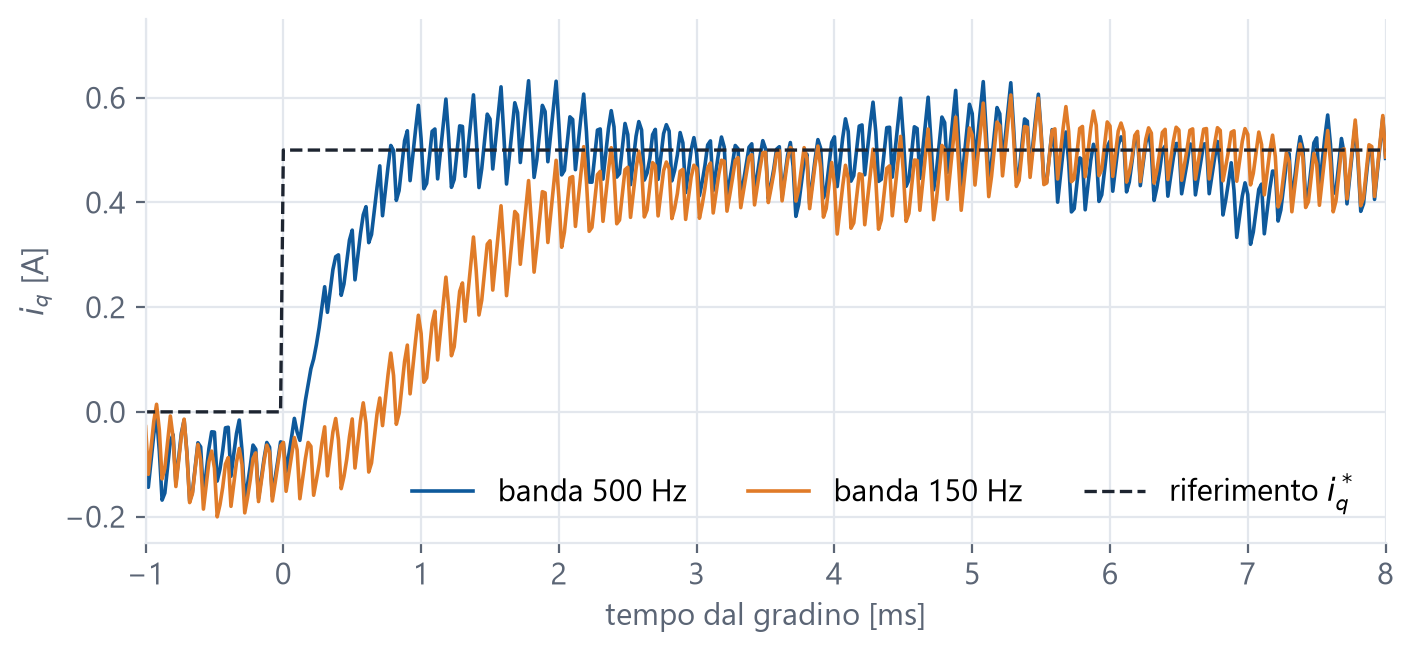
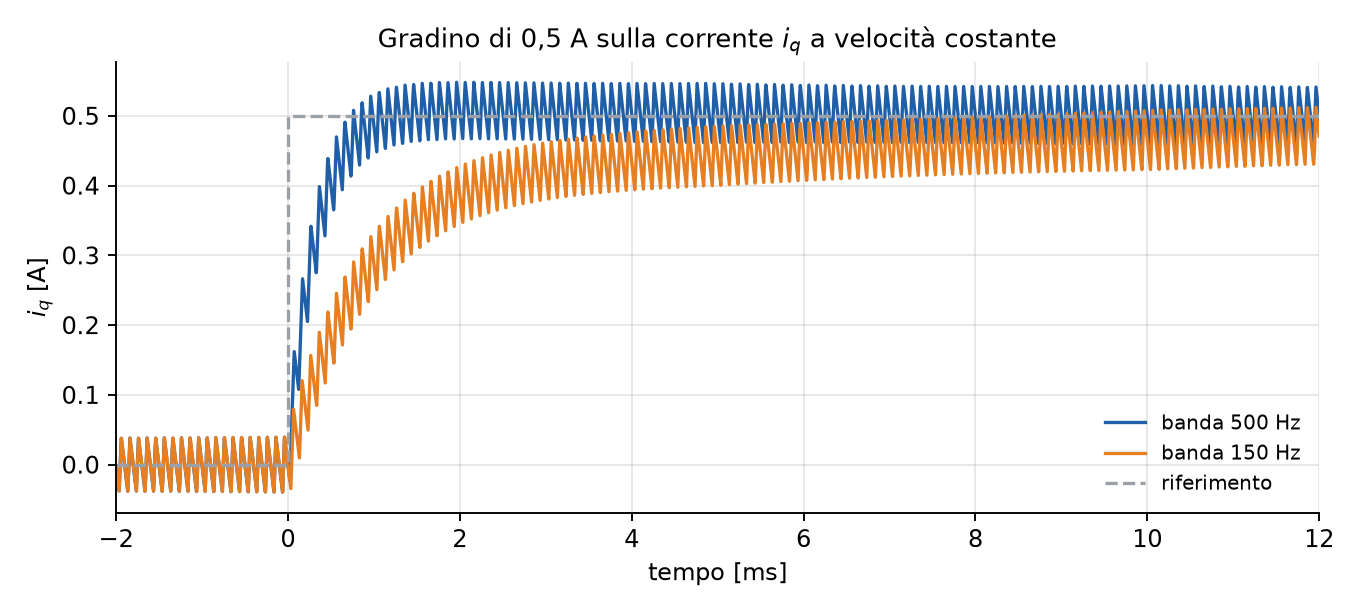
Align PMSM drive page with the PLECS model: motor data, plots and text

diff --git a/progetti/azionamenti.html b/progetti/azionamenti.html
@@ -4,7 +4,7 @@
 <meta charset="utf-8">
 <meta name="viewport" content="width=device-width, initial-scale=1">
 <title>Azionamento di un motore sincrono a magneti permanenti — Valerio Cubeddu</title>
-<meta name="description" content="Progetto del corso di Azionamenti elettrici al Politecnico di Torino: controllo di corrente, coppia, velocità e posizione di un motore SPM con inverter trifase, simulato in Simulink.">
+<meta name="description" content="Progetto del corso di Azionamenti elettrici al Politecnico di Torino: controllo di corrente, coppia, velocità e posizione di un motore SPM con inverter trifase, simulato in PLECS.">
 <link rel="stylesheet" href="../assets/css/style.css?v=7">
 </head>
 <body>
@@ -27,31 +27,31 @@
     <a class="back" href="../index.html#progetti">← Tutti i progetti</a>
     <div class="eyebrow">Progetto d'esame · Azionamenti elettrici ed elettronica di potenza · Politecnico di Torino · 2025</div>
     <h1>Azionamento di un motore sincrono a magneti permanenti</h1>
-    <p class="lead">Ho preso il datasheet di un motore brushless commerciale e ne ho costruito l'azionamento completo in Simulink: inverter trifase, controllo di corrente in assi d-q, poi gli anelli di coppia, velocità e posizione, ognuno dimensionato e verificato con prove dedicate.</p>
+    <p class="lead">Ho preso il datasheet di un motore brushless commerciale e ne ho costruito l'azionamento completo in PLECS: inverter trifase, controllo di corrente in assi d-q, poi gli anelli di coppia, velocità e posizione, ognuno dimensionato e verificato con prove dedicate.</p>
   </div>
 </header>
 
 <div class="wrap">
   <div class="pkpis">
     <div class="kpi"><b>4</b><small>anelli di controllo: corrente, coppia, velocità e posizione</small></div>
-    <div class="kpi"><b>0,6 ms</b><small>tempo di salita della corrente, con banda dell'anello di 500 Hz</small></div>
+    <div class="kpi"><b>0,5 ms</b><small>tempo di salita della corrente, con banda dell'anello di 500 Hz</small></div>
     <div class="kpi"><b>50 Hz · 60°</b><small>crossover e margine di fase dell'anello di velocità</small></div>
-    <div class="kpi"><b>&lt;80 rpm</b><small>calo di velocità a 1000 rpm con un gradino di coppia nominale, che torna al riferimento in circa 20 ms</small></div>
+    <div class="kpi"><b>18 rpm</b><small>calo di velocità a 3000 rpm quando arriva la coppia di carico, recuperato in circa 15 ms</small></div>
   </div>
 
   <div class="pbody">
     <article>
 
       <h2 id="obiettivo">L'obiettivo</h2>
-      <p>Il progetto finale del corso chiedeva di dimensionare, simulare e verificare un azionamento trifase con inverter a due livelli e motore sincrono a magneti permanenti superficiali (SPM). Il punto di partenza era un modello base con il solo controllo di corrente; a ciascuno studente era assegnato un motore commerciale diverso, nel mio caso un <strong>PE1R 90 S6</strong> da 7,2 Nm a 1000 rpm.</p>
+      <p>Il progetto finale del corso chiedeva di dimensionare, simulare e verificare un azionamento trifase con inverter a due livelli e motore sincrono a magneti permanenti superficiali (SPM). Il punto di partenza era un modello base con il solo controllo di corrente; a ciascuno studente era assegnato un motore commerciale diverso, nel mio caso un SPM a due coppie polari da <strong>3,5 Nm</strong> di coppia massima e 0,5 A di corrente nominale.</p>
       <p>Il lavoro si è svolto in quattro passi: adattare il modello al motore reale, verificare il controllo di corrente, aggiungere il controllo di coppia, poi quelli di velocità e di posizione.</p>
 
       <h2 id="modello">Dal datasheet al modello</h2>
-      <p>Dal catalogo ho ricavato i parametri elettrici e meccanici della macchina. L'induttanza sincrona si ottiene da quelle di dispersione e di magnetizzazione, mentre il flusso dei magneti si ricava dalla tensione a vuoto: a corrente nulla la tensione di fase dipende solo dai magneti e dalla velocità elettrica. Il risultato è λ<sub>PM</sub> ≈ 0,754 Vs e una costante di coppia k<sub>T</sub> = 3/2 · p · λ<sub>PM</sub> ≈ 3,39 Nm/A.</p>
-      <p>Il motore e l'inverter (6 IGBT con diodi di ricircolo, DC-link a 560 V, commutazione a 5 kHz) sono modellati con i componenti elettrici di Simscape Electrical. Il controllo, invece, è tutto a tempo discreto e si attiva una volta per periodo PWM, come su un microcontrollore o un DSP reale.</p>
+      <p>Dal catalogo ho ricavato i parametri elettrici e meccanici della macchina. L'induttanza sincrona si ottiene da quelle di dispersione e di magnetizzazione, mentre il flusso dei magneti si ricava dalla tensione a vuoto: a corrente nulla la tensione di fase dipende solo dai magneti e dalla velocità elettrica. Con 105 V a 1000 rpm il risultato è λ<sub>PM</sub> ≈ 0,41 Vs e una costante di coppia k<sub>T</sub> = 3/2 · p · λ<sub>PM</sub> ≈ 1,23 Nm/A.</p>
+      <p>Il motore e l'inverter (6 IGBT con diodi di ricircolo, DC-link a 560 V, commutazione a 5 kHz) sono modellati con i componenti elettrici di PLECS. Il controllo, invece, è tutto a tempo discreto e si attiva una volta per periodo PWM, come su un microcontrollore o un DSP reale.</p>
       <figure>
         <a href="../assets/img/azionamenti/schema_plecs.png" target="_blank"><img src="../assets/img/azionamenti/schema_plecs.png" alt="Schema del modello: modulatore PWM, inverter trifase a IGBT, motore sincrono a magneti permanenti, sensori di posizione e velocità e coppia di carico" loading="lazy"></a>
-        <figcaption>La parte di potenza nella versione PLECS del modello: il modulatore PWM comanda i sei IGBT dell'inverter, che alimenta il motore; sull'albero ci sono i sensori di posizione e di velocità e la coppia di carico usata nelle prove.</figcaption>
+        <figcaption>La parte di potenza del modello: il modulatore PWM comanda i sei IGBT dell'inverter, che alimenta il motore; sull'albero ci sono i sensori di posizione e di velocità e la coppia di carico usata nelle prove.</figcaption>
       </figure>
 
       <h2 id="cascata">Architettura di controllo</h2>
@@ -62,10 +62,10 @@
       </figure>
 
       <h2 id="corrente">Controllo di corrente e di coppia</h2>
-      <p>Il regolatore di corrente fornito era un PI in assi d-q con anti-windup e saturazione alla massima tensione dell'inverter. L'ho verificato con tre prove: inseguimento dei riferimenti a regime, risposta a gradino e tensione a vuoto. Con una banda di 500 Hz la corrente passa dal 10 al 90% del gradino in circa 0,6 ms; riducendo la banda a 150 Hz servono circa 2,5 ms. A corrente nulla e velocità nominale la tensione richiesta è tutta in asse q e vale circa 284 V concatenati, a circa il 2% dai 290 V del catalogo: una conferma che i parametri ricavati dal datasheet sono coerenti.</p>
+      <p>Il regolatore di corrente fornito era un PI in assi d-q con anti-windup e saturazione alla massima tensione dell'inverter. L'ho verificato con tre prove: inseguimento dei riferimenti a regime, risposta a gradino e tensione a vuoto. Con una banda di 500 Hz la corrente passa dal 10 al 90% del gradino in circa 0,5 ms; riducendo la banda a 150 Hz servono circa 2,5 ms.</p>
       <figure>
         <a href="../assets/img/azionamenti/corrente.png" target="_blank"><img src="../assets/img/azionamenti/corrente.png" alt="Risposta a gradino della corrente iq con due diverse bande passanti" loading="lazy"></a>
-        <figcaption>Gradino di 0,5 A sulla corrente i<sub>q</sub> a 1000 rpm, con banda di 500 Hz e di 150 Hz. Il ripple è dovuto alla commutazione PWM.</figcaption>
+        <figcaption>Gradino di 0,5 A sulla corrente i<sub>q</sub> a velocità costante (circa 950 rpm), con banda di 500 Hz e di 150 Hz. Il ripple è dovuto alla commutazione PWM.</figcaption>
       </figure>
       <p>Il controllo di coppia è un passaggio diretto: in un motore SPM la coppia dipende solo da i<sub>q</sub>, quindi basta dividere la coppia richiesta per k<sub>T</sub>, tenendo i<sub>d</sub> = 0. Proprio perché non introduce dinamica, l'anello di coppia ha la stessa banda di quello di corrente.</p>
       <figure>
@@ -75,26 +75,22 @@
 
       <h2 id="velocita">Controllo di velocità</h2>
       <p>Per l'anello di velocità il modello meccanico cambia: il motore non ha più la velocità imposta ma riceve una coppia di carico, e la velocità risulta dal bilancio con l'inerzia. Ho progettato un PI con anti-windup e saturazione alla coppia massima del motore, calcolando i guadagni dalla funzione d'anello aperto per avere crossover a 50 Hz e margine di fase di 60°.</p>
-      <p>Le prove verificano il gradino a 1000 rpm, l'effetto del margine di fase, la velocità massima raggiungibile prima della saturazione e la <strong>rigidezza dinamica</strong>: quando arriva un gradino di coppia pari a quella nominale la velocità cala per un istante e il PI la riporta al riferimento.</p>
+      <p>Le prove verificano il gradino di velocità e la <strong>rigidezza dinamica</strong>. Nel gradino a 3000 rpm la coppia richiesta va subito in saturazione al limite del motore e l'anti-windup evita che l'integratore si carichi: la velocità arriva al riferimento con una sovraelongazione di circa il 4%. Quando arriva la coppia di carico, la velocità cala di circa 18 rpm e il PI la riporta al riferimento in circa 15 ms.</p>
       <figure>
         <a href="../assets/img/azionamenti/velocita.png" target="_blank"><img src="../assets/img/azionamenti/velocita.png" alt="Risposta di velocità a un gradino e a un disturbo di coppia, con margine di fase di 60 e 10 gradi" loading="lazy"></a>
-        <figcaption>Gradino di velocità a 1000 rpm e, dopo 0,4 s, gradino di coppia di carico da 7,2 Nm. All'avvio la coppia satura al limite del motore; con margine di fase di 10° la risposta diventa molto oscillante.</figcaption>
+        <figcaption>Gradino di velocità a 3000 rpm a 0,2 s e coppia di carico a 0,5 s. Durante l'accelerazione la coppia resta sul limite di 3,5 Nm del motore.</figcaption>
       </figure>
 
       <h2 id="posizione">Controllo di posizione</h2>
-      <p>L'anello di velocità chiuso si comporta, visto dall'esterno, come un integratore puro. Per questo per la posizione basta un regolatore proporzionale, con crossover a 5 Hz. L'ho verificato con un gradino di π rad e con riferimenti sinusoidali: a 1,5 Hz la posizione segue bene il riferimento, a 4 Hz, vicino alla banda, si vedono ritardo e calo di ampiezza.</p>
-      <figure>
-        <a href="../assets/img/azionamenti/posizione.png" target="_blank"><img src="../assets/img/azionamenti/posizione.png" alt="Risposta del controllo di posizione a un gradino e a riferimenti sinusoidali" loading="lazy"></a>
-        <figcaption>Controllo di posizione: gradino di π rad, sinusoide a 1,5 Hz e a 4 Hz.</figcaption>
-      </figure>
+      <p>L'anello di velocità chiuso si comporta, visto dall'esterno, come un integratore puro. Per questo per la posizione basta un regolatore proporzionale, con crossover a 5 Hz. </p>
       <p>La prova che mostra meglio tutta la cascata al lavoro è un gradino di posizione seguito da un disturbo di carico. L'anello di posizione chiede velocità, quello di velocità chiede coppia, che arriva vicino al limite del motore; la posizione raggiunge il riferimento senza sovraelongazione e, quando sull'albero arriva la coppia di carico, il sistema la compensa in circa 30 ms.</p>
       <figure>
         <a href="../assets/img/azionamenti/pmsm_cascata.png" target="_blank"><img src="../assets/img/azionamenti/pmsm_cascata.png" alt="Posizione, velocità e coppia con i rispettivi riferimenti durante un gradino di posizione e un disturbo di carico" loading="lazy"></a>
-        <figcaption>Simulazione PLECS: gradino di posizione di 90° a 0,2 s e coppia di carico a 0,5 s: ogni grandezza è confrontata con il riferimento generato dall'anello esterno.</figcaption>
+        <figcaption>Gradino di posizione di 90° a 0,2 s e coppia di carico a 0,5 s: ogni grandezza è confrontata con il riferimento generato dall'anello esterno.</figcaption>
       </figure>
 
       <h2 id="imparato">Cosa ho imparato</h2>
-      <p>Questo progetto mi ha fatto vedere da vicino come si costruisce un azionamento reale, dall'elettronica di potenza fino agli anelli di controllo. Ho preso confidenza con il controllo a tempo discreto sincronizzato con il PWM, lo stesso schema che gira sui microcontrollori e sui DSP degli inverter commerciali, e con il metodo per progettare anelli in cascata: scegliere le bande, ricavare i guadagni dal margine di fase e proteggere i regolatori con saturazioni e anti-windup. Ho anche imparato a non fidarmi dei parametri finché non li ho verificati: confrontare la simulazione con i dati di catalogo è stato il modo più semplice per accorgermi se il modello era coerente.</p>
+      <p>Questo progetto mi ha fatto vedere da vicino come si costruisce un azionamento reale, dall'elettronica di potenza fino agli anelli di controllo. Ho preso confidenza con il controllo a tempo discreto sincronizzato con il PWM, lo stesso schema che gira sui microcontrollori e sui DSP degli inverter commerciali, e con il metodo per progettare anelli in cascata: scegliere le bande, ricavare i guadagni dal margine di fase e proteggere i regolatori con saturazioni e anti-windup. Ho anche imparato a non fidarmi dei parametri finché non li ho verificati, ricavandoli dal datasheet e controllando che il modello si comportasse come previsto.</p>
 
       <div class="pnext">
         <a href="../index.html#progetti">← Tutti i progetti</a>
@@ -107,9 +103,9 @@
         <dt>Contesto</dt><dd>Corso di Azionamenti elettrici ed elettronica di potenza, Politecnico di Torino</dd>
         <dt>Periodo</dt><dd>A.A. 2024 – 2025</dd>
         <dt>Tipo</dt><dd>Progetto individuale</dd>
-        <dt>Motore</dt><dd>SPM PE1R 90 S6 · 7,2 Nm · 1000 rpm</dd>
+        <dt>Motore</dt><dd>SPM a 2 coppie polari · 3,5 Nm di coppia massima</dd>
         <dt>Strumenti</dt>
-        <dd><div class="chips" style="margin-top:6px"><span class="chip">MATLAB</span><span class="chip">Simulink</span><span class="chip">Simscape Electrical</span><span class="chip">PLECS</span><span class="chip">Controllo d-q</span><span class="chip">PWM</span></div></dd>
+        <dd><div class="chips" style="margin-top:6px"><span class="chip">PLECS</span><span class="chip">Controllo d-q</span><span class="chip">PWM</span></div></dd>
         <dt>In questa pagina</dt>
         <dd><ul class="toc">
           <li><a href="#obiettivo">L'obiettivo</a></li>

diff --git a/en/progetti/azionamenti.html b/en/progetti/azionamenti.html
@@ -4,7 +4,7 @@
 <meta charset="utf-8">
 <meta name="viewport" content="width=device-width, initial-scale=1">
 <title>Permanent magnet synchronous motor drive — Valerio Cubeddu</title>
-<meta name="description" content="Electric Drives course project at Politecnico di Torino: current, torque, speed and position control of an SPM motor with a three-phase inverter, simulated in Simulink.">
+<meta name="description" content="Electric Drives course project at Politecnico di Torino: current, torque, speed and position control of an SPM motor with a three-phase inverter, simulated in PLECS.">
 <link rel="stylesheet" href="../../assets/css/style.css?v=7">
 </head>
 <body>
@@ -27,31 +27,31 @@
     <a class="back" href="../index.html#progetti">← All projects</a>
     <div class="eyebrow">Exam project · Electric Drives and Power Electronics · Politecnico di Torino · 2025</div>
     <h1>Permanent magnet synchronous motor drive</h1>
-    <p class="lead">I took the datasheet of a commercial brushless motor and built its complete drive in Simulink: three-phase inverter, current control in the d-q frame, then the torque, speed and position loops, each one sized and verified with dedicated tests.</p>
+    <p class="lead">I took the datasheet of a commercial brushless motor and built its complete drive in PLECS: three-phase inverter, current control in the d-q frame, then the torque, speed and position loops, each one sized and verified with dedicated tests.</p>
   </div>
 </header>
 
 <div class="wrap">
   <div class="pkpis">
     <div class="kpi"><b>4</b><small>control loops: current, torque, speed and position</small></div>
-    <div class="kpi"><b>0.6 ms</b><small>current rise time, with a 500 Hz loop bandwidth</small></div>
+    <div class="kpi"><b>0.5 ms</b><small>current rise time, with a 500 Hz loop bandwidth</small></div>
     <div class="kpi"><b>50 Hz · 60°</b><small>crossover and phase margin of the speed loop</small></div>
-    <div class="kpi"><b>&lt;80 rpm</b><small>speed dip at 1000 rpm with a rated-torque step, back to the reference in about 20 ms</small></div>
+    <div class="kpi"><b>18 rpm</b><small>speed dip at 3000 rpm when the load torque arrives, recovered in about 15 ms</small></div>
   </div>
 
   <div class="pbody">
     <article>
 
       <h2 id="obiettivo">The goal</h2>
-      <p>The final project of the course asked us to size, simulate and verify a three-phase drive with a two-level inverter and a surface permanent magnet synchronous motor (SPM). The starting point was a basic model with current control only; each student was given a different commercial motor, in my case a <strong>PE1R 90 S6</strong> rated 7.2 Nm at 1000 rpm.</p>
+      <p>The final project of the course asked us to size, simulate and verify a three-phase drive with a two-level inverter and a surface permanent magnet synchronous motor (SPM). The starting point was a basic model with current control only; each student was given a different commercial motor, in my case a two-pole-pair SPM with <strong>3.5 Nm</strong> maximum torque and 0.5 A rated current.</p>
       <p>The work took four steps: adapting the model to the real motor, verifying the current control, adding torque control, then speed and position control.</p>
 
       <h2 id="modello">From the datasheet to the model</h2>
-      <p>From the catalogue I derived the electrical and mechanical parameters of the machine. The synchronous inductance is obtained from the leakage and magnetising inductances, while the magnet flux comes from the no-load voltage: at zero current the phase voltage depends only on the magnets and on the electrical speed. The result is λ<sub>PM</sub> ≈ 0.754 Vs and a torque constant k<sub>T</sub> = 3/2 · p · λ<sub>PM</sub> ≈ 3.39 Nm/A.</p>
-      <p>The motor and the inverter (6 IGBTs with freewheeling diodes, 560 V DC link, 5 kHz switching) are modelled with Simscape Electrical components. The control, instead, is entirely discrete-time and runs once per PWM period, as on a real microcontroller or DSP.</p>
+      <p>From the catalogue I derived the electrical and mechanical parameters of the machine. The synchronous inductance is obtained from the leakage and magnetising inductances, while the magnet flux comes from the no-load voltage: at zero current the phase voltage depends only on the magnets and on the electrical speed. With 105 V at 1000 rpm the result is λ<sub>PM</sub> ≈ 0.41 Vs and a torque constant k<sub>T</sub> = 3/2 · p · λ<sub>PM</sub> ≈ 1.23 Nm/A.</p>
+      <p>The motor and the inverter (6 IGBTs with freewheeling diodes, 560 V DC link, 5 kHz switching) are modelled with PLECS electrical components. The control, instead, is entirely discrete-time and runs once per PWM period, as on a real microcontroller or DSP.</p>
       <figure>
         <a href="../../assets/img/azionamenti/schema_plecs.png" target="_blank"><img src="../../assets/img/azionamenti/schema_plecs.png" alt="Model schematic: PWM modulator, three-phase IGBT inverter, permanent magnet synchronous motor, position and speed sensors and load torque" loading="lazy"></a>
-        <figcaption>The power stage in the PLECS version of the model: the PWM modulator drives the six IGBTs of the inverter, which feeds the motor; on the shaft sit the position and speed sensors and the load torque used in the tests.</figcaption>
+        <figcaption>The power stage of the model: the PWM modulator drives the six IGBTs of the inverter, which feeds the motor; on the shaft sit the position and speed sensors and the load torque used in the tests.</figcaption>
       </figure>
 
       <h2 id="cascata">Control architecture</h2>
@@ -62,10 +62,10 @@
       </figure>
 
       <h2 id="corrente">Current and torque control</h2>
-      <p>The given current regulator was a PI in the d-q frame with anti-windup and saturation at the maximum inverter voltage. I verified it with three tests: steady-state reference tracking, step response and no-load voltage. With a 500 Hz bandwidth the current goes from 10 to 90% of the step in about 0.6 ms; reducing the bandwidth to 150 Hz takes about 2.5 ms. At zero current and rated speed the required voltage is entirely on the q axis and is about 284 V line-to-line, within about 2% of the 290 V in the catalogue: a confirmation that the parameters derived from the datasheet are consistent.</p>
+      <p>The given current regulator was a PI in the d-q frame with anti-windup and saturation at the maximum inverter voltage. I verified it with three tests: steady-state reference tracking, step response and no-load voltage. With a 500 Hz bandwidth the current goes from 10 to 90% of the step in about 0.5 ms; reducing the bandwidth to 150 Hz takes about 2.5 ms.</p>
       <figure>
-        <a href="../../assets/img/azionamenti/corrente.png" target="_blank"><img src="../../assets/img/azionamenti/corrente.png" alt="Step response of the iq current with two different bandwidths" loading="lazy"></a>
-        <figcaption>0.5 A step on the i<sub>q</sub> current at 1000 rpm, with 500 Hz and 150 Hz bandwidth. The ripple is due to PWM switching.</figcaption>
+        <a href="../../assets/img/azionamenti/corrente_en.png" target="_blank"><img src="../../assets/img/azionamenti/corrente.png" alt="Step response of the iq current with two different bandwidths" loading="lazy"></a>
+        <figcaption>0.5 A step on the i<sub>q</sub> current at constant speed (about 950 rpm), with 500 Hz and 150 Hz bandwidth. The ripple is due to PWM switching.</figcaption>
       </figure>
       <p>Torque control is a direct pass-through: in an SPM motor torque depends only on i<sub>q</sub>, so it is enough to divide the requested torque by k<sub>T</sub>, keeping i<sub>d</sub> = 0. Precisely because it adds no dynamics, the torque loop has the same bandwidth as the current loop.</p>
 
@@ -76,27 +76,23 @@
 
       <h2 id="velocita">Speed control</h2>
       <p>For the speed loop the mechanical model changes: the speed is no longer imposed on the motor, which instead receives a load torque, and the speed results from the balance with the inertia. I designed a PI with anti-windup and saturation at the motor's maximum torque, computing the gains from the open-loop function to get a 50 Hz crossover and a 60° phase margin.</p>
-      <p>The tests check the step to 1000 rpm, the effect of the phase margin, the maximum speed reachable before saturation, and the <strong>dynamic stiffness</strong>: when a torque step equal to the rated torque arrives, the speed drops for an instant and the PI brings it back to the reference.</p>
+      <p>The tests check the speed step and the <strong>dynamic stiffness</strong>. In the step to 3000 rpm the requested torque saturates immediately at the motor limit and the anti-windup stops the integrator from charging up: the speed reaches the reference with about 4% overshoot. When the load torque arrives, the speed drops by about 18 rpm and the PI brings it back to the reference in about 15 ms.</p>
       <figure>
-        <a href="../../assets/img/azionamenti/velocita.png" target="_blank"><img src="../../assets/img/azionamenti/velocita.png" alt="Speed response to a step and to a torque disturbance, with 60 and 10 degree phase margin" loading="lazy"></a>
-        <figcaption>Speed step to 1000 rpm and, after 0.4 s, a 7.2 Nm load torque step. At start-up the torque saturates at the motor limit; with a 10° phase margin the response becomes very oscillatory.</figcaption>
+        <a href="../../assets/img/azionamenti/velocita_en.png" target="_blank"><img src="../../assets/img/azionamenti/velocita.png" alt="Speed response to a step and to a torque disturbance, with 60 and 10 degree phase margin" loading="lazy"></a>
+        <figcaption>Speed step to 3000 rpm at 0.2 s and load torque at 0.5 s. During the acceleration the torque stays at the motor's 3.5 Nm limit.</figcaption>
       </figure>
 
       <h2 id="posizione">Position control</h2>
-      <p>Seen from outside, the closed speed loop behaves like a pure integrator. For this reason a proportional regulator is enough for position, with a 5 Hz crossover. I verified it with a π rad step and with sinusoidal references: at 1.5 Hz the position tracks the reference well; at 4 Hz, close to the bandwidth, delay and amplitude reduction appear.</p>
-      <figure>
-        <a href="../../assets/img/azionamenti/posizione.png" target="_blank"><img src="../../assets/img/azionamenti/posizione.png" alt="Response of the position control to a step and to sinusoidal references" loading="lazy"></a>
-        <figcaption>Position control: π rad step, sine wave at 1.5 Hz and at 4 Hz.</figcaption>
-      </figure>
+      <p>Seen from outside, the closed speed loop behaves like a pure integrator. For this reason a proportional regulator is enough for position, with a 5 Hz crossover.</p>
 
       <p>The test that best shows the whole cascade at work is a position step followed by a load disturbance. The position loop asks for speed, the speed loop asks for torque, which gets close to the motor's limit; the position reaches the reference without overshoot and, when the load torque hits the shaft, the system compensates it in about 30 ms.</p>
       <figure>
         <a href="../../assets/img/azionamenti/pmsm_cascade.png" target="_blank"><img src="../../assets/img/azionamenti/pmsm_cascade.png" alt="Position, speed and torque with their references during a position step and a load disturbance" loading="lazy"></a>
-        <figcaption>PLECS simulation: 90° position step at 0.2 s and load torque at 0.5 s; each quantity is compared with the reference generated by the outer loop.</figcaption>
+        <figcaption>90° position step at 0.2 s and load torque at 0.5 s; each quantity is compared with the reference generated by the outer loop.</figcaption>
       </figure>
 
       <h2 id="imparato">What I learned</h2>
-      <p>This project showed me up close how a real drive is built, from power electronics to the control loops. I became familiar with discrete-time control synchronised with the PWM, the same scheme that runs on the microcontrollers and DSPs of commercial inverters, and with the method for designing cascaded loops: choosing the bandwidths, deriving the gains from the phase margin and protecting the regulators with saturations and anti-windup. I also learned not to trust parameters until I have verified them: comparing the simulation with catalogue data was the simplest way to notice whether the model was consistent.</p>
+      <p>This project showed me up close how a real drive is built, from power electronics to the control loops. I became familiar with discrete-time control synchronised with the PWM, the same scheme that runs on the microcontrollers and DSPs of commercial inverters, and with the method for designing cascaded loops: choosing the bandwidths, deriving the gains from the phase margin and protecting the regulators with saturations and anti-windup. I also learned not to trust parameters until I have verified them, deriving them from the datasheet and checking that the model behaved as expected.</p>
 
       <div class="pnext">
         <a href="../index.html#progetti">← All projects</a>
@@ -109,9 +105,9 @@
         <dt>Context</dt><dd>Electric Drives and Power Electronics course, Politecnico di Torino</dd>
         <dt>Period</dt><dd>Academic year 2024 – 2025</dd>
         <dt>Type</dt><dd>Individual project</dd>
-        <dt>Motor</dt><dd>SPM PE1R 90 S6 · 7.2 Nm · 1000 rpm</dd>
+        <dt>Motor</dt><dd>SPM with 2 pole pairs · 3.5 Nm maximum torque</dd>
         <dt>Tools</dt>
-        <dd><div class="chips" style="margin-top:6px"><span class="chip">MATLAB</span><span class="chip">Simulink</span><span class="chip">Simscape Electrical</span><span class="chip">PLECS</span><span class="chip">d-q control</span><span class="chip">PWM</span></div></dd>
+        <dd><div class="chips" style="margin-top:6px"><span class="chip">PLECS</span><span class="chip">d-q control</span><span class="chip">PWM</span></div></dd>
         <dt>On this page</dt>
         <dd><ul class="toc">
           <li><a href="#obiettivo">The goal</a></li>

diff --git a/index.html b/index.html
@@ -120,7 +120,7 @@
       </a>
       <a class="card" data-c="mech" href="progetti/azionamenti.html">
         <div class="thumb" style="background-image:url(assets/img/azionamenti/velocita.png);background-color:#fff;background-size:contain;background-repeat:no-repeat;background-position:center"></div>
-        <div class="c"><div class="meta">2025 · Azionamenti elettrici</div><h4>Azionamento di un motore sincrono a magneti permanenti</h4><p>Controllo di corrente, coppia, velocità e posizione con inverter trifase, dal datasheet alla simulazione.</p><div class="chips"><span class="chip">Simulink</span><span class="chip">Controllo d-q</span></div></div>
+        <div class="c"><div class="meta">2025 · Azionamenti elettrici</div><h4>Azionamento di un motore sincrono a magneti permanenti</h4><p>Controllo di corrente, coppia, velocità e posizione con inverter trifase, dal datasheet alla simulazione.</p><div class="chips"><span class="chip">PLECS</span><span class="chip">Controllo d-q</span></div></div>
       </a>
       <a class="card" data-c="mech" href="progetti/meccatronica.html">
         <div class="thumb" style="background-image:url(assets/img/meccatronica/ema_banco.png);background-color:#fff;background-size:cover;background-position:center"></div>

diff --git a/en/index.html b/en/index.html
@@ -120,7 +120,7 @@
       </a>
       <a class="card" data-c="mech" href="progetti/azionamenti.html">
         <div class="thumb" style="background-image:url(../assets/img/azionamenti/velocita.png);background-color:#fff;background-size:contain;background-repeat:no-repeat;background-position:center"></div>
-        <div class="c"><div class="meta">2025 · Electric drives</div><h4>Permanent magnet synchronous motor drive</h4><p>Current, torque, speed and position control with a three-phase inverter, from the datasheet to the simulation.</p><div class="chips"><span class="chip">Simulink</span><span class="chip">d-q control</span></div></div>
+        <div class="c"><div class="meta">2025 · Electric drives</div><h4>Permanent magnet synchronous motor drive</h4><p>Current, torque, speed and position control with a three-phase inverter, from the datasheet to the simulation.</p><div class="chips"><span class="chip">PLECS</span><span class="chip">d-q control</span></div></div>
       </a>
       <a class="card" data-c="mech" href="progetti/meccatronica.html">
         <div class="thumb" style="background-image:url(../assets/img/meccatronica/ema_banco.png);background-color:#fff;background-size:cover;background-position:center"></div>
